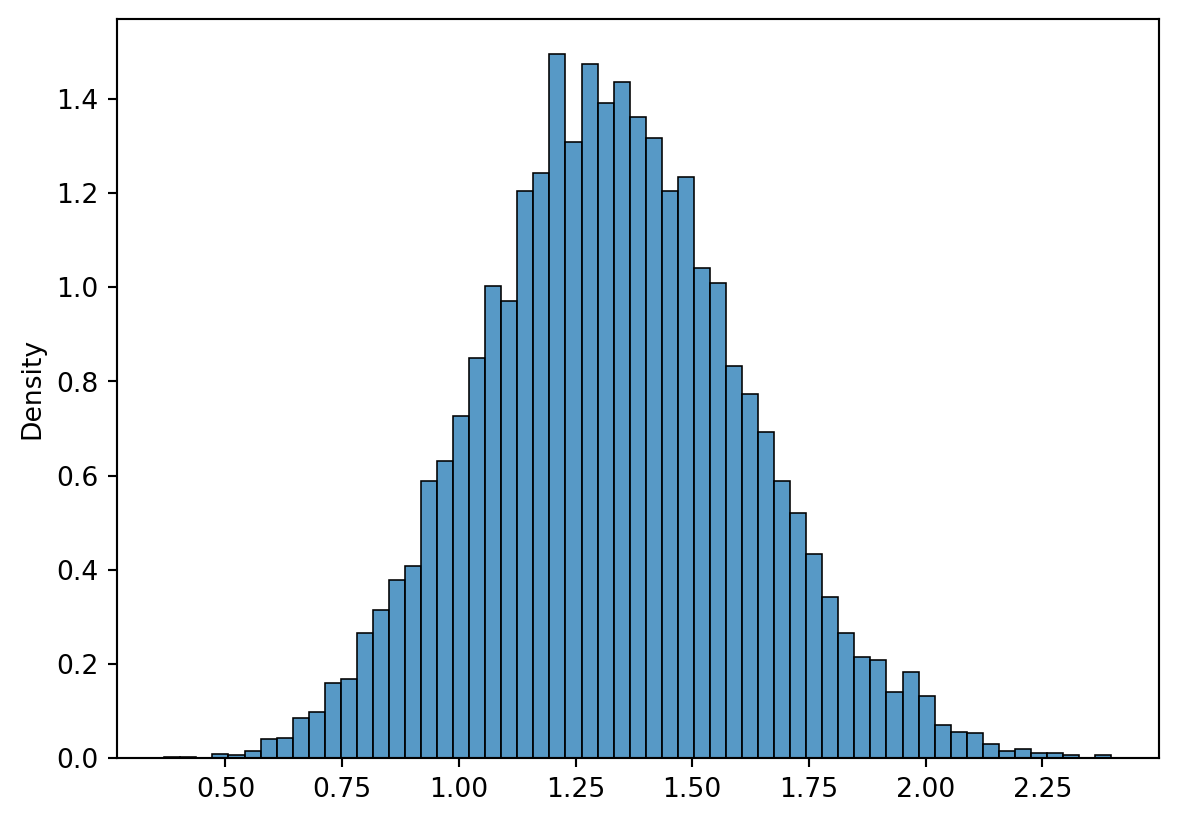
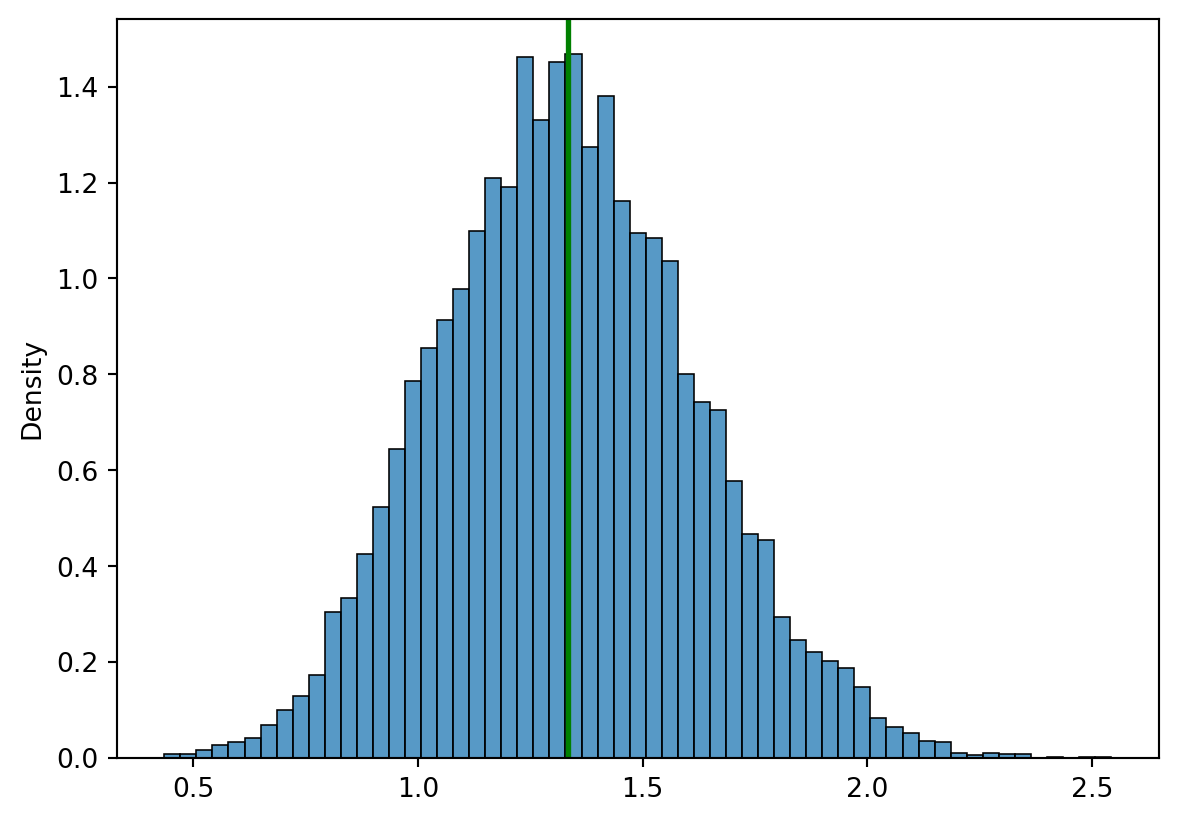
hw4

diff --git a/docs/posts/hw4/hw4.html b/docs/posts/hw4/hw4.html
@@ -199,7 +199,7 @@ pre > code.sourceCode > span > a:first-child::before { text-decoration: underlin
 <p>표본 분산 계산 시 왜 n-1로 나누는지 알아보도록 하겠습니다.</p>
 <p>균일분포 (3, 7)에서 20개의 표본을 뽑아서 분산을 2가지 방법으로 추정해보세요.</p>
 <p>n-1로 나눈 것을 s_2, n으로 나눈 것을 k_2로 정의하고, s_2의 분포와 k_2의 분포를 그려주세요! (10000개 사용) 각 분포 그래프에 모분산의 위치에 녹색 막대를 그려주세요. 결과를 살펴보고, 왜 n-1로 나눈 것을 분산을 추정하는 지표로 사용하는 것이 타당한지 써주세요!</p>
-<div id="618e5e76" class="cell" data-execution_count="1">
+<div id="67d9815f" class="cell" data-execution_count="1">
 <div class="sourceCode cell-code" id="cb1"><pre class="sourceCode python code-with-copy"><code class="sourceCode python"><span id="cb1-1"><a href="#cb1-1" aria-hidden="true" tabindex="-1"></a><span class="im">import</span> pandas <span class="im">as</span> pd</span>
 <span id="cb1-2"><a href="#cb1-2" aria-hidden="true" tabindex="-1"></a><span class="im">import</span> numpy <span class="im">as</span> np</span>
 <span id="cb1-3"><a href="#cb1-3" aria-hidden="true" tabindex="-1"></a><span class="im">import</span> seaborn <span class="im">as</span> sns</span>
@@ -207,29 +207,25 @@ pre > code.sourceCode > span > a:first-child::before { text-decoration: underlin
 <span id="cb1-5"><a href="#cb1-5" aria-hidden="true" tabindex="-1"></a><span class="im">from</span> scipy.stats <span class="im">import</span> uniform</span></code><button title="Copy to Clipboard" class="code-copy-button"><i class="bi"></i></button></pre></div>
 </div>
 <p><strong>균일분포 (3, 7)에서 20개의 표본 추출</strong></p>
-<div id="9b113891" class="cell" data-execution_count="2">
+<div id="d69a9055" class="cell" data-execution_count="2">
 <div class="sourceCode cell-code" id="cb2"><pre class="sourceCode python code-with-copy"><code class="sourceCode python"><span id="cb2-1"><a href="#cb2-1" aria-hidden="true" tabindex="-1"></a>x <span class="op">=</span> uniform.rvs(loc<span class="op">=</span><span class="dv">3</span>, scale<span class="op">=</span><span class="dv">4</span>, size<span class="op">=</span><span class="dv">20</span><span class="op">*</span><span class="dv">10000</span>)</span>
 <span id="cb2-2"><a href="#cb2-2" aria-hidden="true" tabindex="-1"></a>x</span>
 <span id="cb2-3"><a href="#cb2-3" aria-hidden="true" tabindex="-1"></a>x.shape</span>
 <span id="cb2-4"><a href="#cb2-4" aria-hidden="true" tabindex="-1"></a>x<span class="op">=</span>x.reshape(<span class="op">-</span><span class="dv">1</span>, <span class="dv">20</span>)</span>
 <span id="cb2-5"><a href="#cb2-5" aria-hidden="true" tabindex="-1"></a>x</span>
 <span id="cb2-6"><a href="#cb2-6" aria-hidden="true" tabindex="-1"></a>x.shape</span></code><button title="Copy to Clipboard" class="code-copy-button"><i class="bi"></i></button></pre></div>
-<div class="cell-output cell-output-display" data-execution_count="2">
+<div class="cell-output cell-output-display" data-execution_count="6">
 <pre><code>(10000, 20)</code></pre>
 </div>
 </div>
 <p><strong>n-1로 나눈 것을 s_2</strong> <strong>s_2의 분포 그리기 (10000개 사용)</strong> <strong>모분산의 위치에 녹색 막대</strong></p>
-<div id="268865da" class="cell" data-execution_count="3">
+<div id="ada8b3ab" class="cell" data-execution_count="3">
 <div class="sourceCode cell-code" id="cb4"><pre class="sourceCode python code-with-copy"><code class="sourceCode python"><span id="cb4-1"><a href="#cb4-1" aria-hidden="true" tabindex="-1"></a>s_2 <span class="op">=</span> np.var(x, ddof<span class="op">=</span><span class="dv">1</span>, axis<span class="op">=</span><span class="dv">1</span>)</span>
 <span id="cb4-2"><a href="#cb4-2" aria-hidden="true" tabindex="-1"></a>s_2.shape</span>
-<span id="cb4-3"><a href="#cb4-3" aria-hidden="true" tabindex="-1"></a></span>
-<span id="cb4-4"><a href="#cb4-4" aria-hidden="true" tabindex="-1"></a>sns.histplot(s_2, stat<span class="op">=</span><span class="st">'density'</span>)</span>
+<span id="cb4-3"><a href="#cb4-3" aria-hidden="true" tabindex="-1"></a>sns.histplot(s_2, stat<span class="op">=</span><span class="st">'density'</span>)</span>
+<span id="cb4-4"><a href="#cb4-4" aria-hidden="true" tabindex="-1"></a>plt.axvline(x <span class="op">=</span> uniform.var(loc<span class="op">=</span><span class="dv">2</span>, scale<span class="op">=</span><span class="dv">4</span>), color <span class="op">=</span> <span class="st">'green'</span>, linestyle <span class="op">=</span> <span class="st">'-'</span>, linewidth <span class="op">=</span> <span class="dv">2</span>)</span>
 <span id="cb4-5"><a href="#cb4-5" aria-hidden="true" tabindex="-1"></a>plt.show()</span>
-<span id="cb4-6"><a href="#cb4-6" aria-hidden="true" tabindex="-1"></a></span>
-<span id="cb4-7"><a href="#cb4-7" aria-hidden="true" tabindex="-1"></a>uniform.var(loc<span class="op">=</span><span class="dv">2</span>, scale<span class="op">=</span><span class="dv">4</span>) <span class="co"># 모분산</span></span>
-<span id="cb4-8"><a href="#cb4-8" aria-hidden="true" tabindex="-1"></a>plt.axvline(x <span class="op">=</span> uniform.var(loc<span class="op">=</span><span class="dv">2</span>, scale<span class="op">=</span><span class="dv">4</span>), color <span class="op">=</span> <span class="st">'green'</span>, linestyle <span class="op">=</span> <span class="st">'-'</span>, linewidth <span class="op">=</span> <span class="dv">2</span>)</span>
-<span id="cb4-9"><a href="#cb4-9" aria-hidden="true" tabindex="-1"></a>plt.show()</span>
-<span id="cb4-10"><a href="#cb4-10" aria-hidden="true" tabindex="-1"></a>plt.clf()</span></code><button title="Copy to Clipboard" class="code-copy-button"><i class="bi"></i></button></pre></div>
+<span id="cb4-6"><a href="#cb4-6" aria-hidden="true" tabindex="-1"></a>plt.clf()</span></code><button title="Copy to Clipboard" class="code-copy-button"><i class="bi"></i></button></pre></div>
 <div class="cell-output cell-output-display">
 <div>
 <figure class="figure">
@@ -238,38 +234,21 @@ pre > code.sourceCode > span > a:first-child::before { text-decoration: underlin
 </div>
 </div>
 <div class="cell-output cell-output-display">
-<div>
-<figure class="figure">
-<p><img src="hw4_files/figure-html/cell-4-output-2.png" width="571" height="416" class="figure-img"></p>
-</figure>
-</div>
-</div>
-<div class="cell-output cell-output-display">
 <pre><code>&lt;Figure size 672x480 with 0 Axes&gt;</code></pre>
 </div>
 </div>
 <p><strong>n으로 나눈 것을 k_2로 정의</strong> <strong>k_2의 분포 그리기 (10000개 사용)</strong> <strong>모분산의 위치에 녹색 막대</strong></p>
-<div id="4e8c3183" class="cell" data-execution_count="4">
+<div id="877a3671" class="cell" data-execution_count="4">
 <div class="sourceCode cell-code" id="cb6"><pre class="sourceCode python code-with-copy"><code class="sourceCode python"><span id="cb6-1"><a href="#cb6-1" aria-hidden="true" tabindex="-1"></a>k_2 <span class="op">=</span> np.var(x, ddof<span class="op">=</span><span class="dv">0</span>, axis<span class="op">=</span><span class="dv">1</span>)</span>
 <span id="cb6-2"><a href="#cb6-2" aria-hidden="true" tabindex="-1"></a>k_2.shape</span>
 <span id="cb6-3"><a href="#cb6-3" aria-hidden="true" tabindex="-1"></a></span>
 <span id="cb6-4"><a href="#cb6-4" aria-hidden="true" tabindex="-1"></a>sns.histplot(k_2, stat<span class="op">=</span><span class="st">'density'</span>)</span>
-<span id="cb6-5"><a href="#cb6-5" aria-hidden="true" tabindex="-1"></a>plt.show()</span>
-<span id="cb6-6"><a href="#cb6-6" aria-hidden="true" tabindex="-1"></a></span>
-<span id="cb6-7"><a href="#cb6-7" aria-hidden="true" tabindex="-1"></a>uniform.var(loc<span class="op">=</span><span class="dv">2</span>, scale<span class="op">=</span><span class="dv">4</span>) <span class="co"># 모분산</span></span>
-<span id="cb6-8"><a href="#cb6-8" aria-hidden="true" tabindex="-1"></a>plt.axvline(x <span class="op">=</span> uniform.var(loc<span class="op">=</span><span class="dv">2</span>, scale<span class="op">=</span><span class="dv">4</span>), color <span class="op">=</span> <span class="st">'green'</span>, linestyle <span class="op">=</span> <span class="st">'-'</span>, linewidth <span class="op">=</span> <span class="dv">2</span>)</span>
-<span id="cb6-9"><a href="#cb6-9" aria-hidden="true" tabindex="-1"></a>plt.show()</span></code><button title="Copy to Clipboard" class="code-copy-button"><i class="bi"></i></button></pre></div>
+<span id="cb6-5"><a href="#cb6-5" aria-hidden="true" tabindex="-1"></a>plt.axvline(x <span class="op">=</span> uniform.var(loc<span class="op">=</span><span class="dv">2</span>, scale<span class="op">=</span><span class="dv">4</span>), color <span class="op">=</span> <span class="st">'green'</span>, linestyle <span class="op">=</span> <span class="st">'-'</span>, linewidth <span class="op">=</span> <span class="dv">2</span>)</span>
+<span id="cb6-6"><a href="#cb6-6" aria-hidden="true" tabindex="-1"></a>plt.show()</span></code><button title="Copy to Clipboard" class="code-copy-button"><i class="bi"></i></button></pre></div>
 <div class="cell-output cell-output-display">
 <div>
 <figure class="figure">
-<p><img src="hw4_files/figure-html/cell-5-output-1.png" width="589" height="411" class="figure-img"></p>
-</figure>
-</div>
-</div>
-<div class="cell-output cell-output-display">
-<div>
-<figure class="figure">
-<p><img src="hw4_files/figure-html/cell-5-output-2.png" width="571" height="416" class="figure-img"></p>
+<p><img src="hw4_files/figure-html/cell-5-output-1.png" width="600" height="411" class="figure-img"></p>
 </figure>
 </div>
 </div>

diff --git a/docs/blog.html b/docs/blog.html
@@ -202,7 +202,7 @@ window.Quarto = {
 
 <div class="quarto-listing quarto-listing-container-default" id="listing-listing">
 <div class="list quarto-listing-default">
-<div class="quarto-post image-right" data-index="0" data-categories="bigdata" data-listing-date-sort="1722178800000" data-listing-file-modified-sort="1722265436358" data-listing-date-modified-sort="NaN" data-listing-reading-time-sort="1" data-listing-word-count-sort="162">
+<div class="quarto-post image-right" data-index="0" data-categories="bigdata" data-listing-date-sort="1722178800000" data-listing-file-modified-sort="1722265827147" data-listing-date-modified-sort="NaN" data-listing-reading-time-sort="1" data-listing-word-count-sort="156">
 <div class="thumbnail">
 <p><a href="./posts/hw4/hw4.html" class="no-external"></a></p><a href="./posts/hw4/hw4.html" class="no-external">
 <p class="card-img-top"><img src="posts\hw4\hw4_files\figure-html\cell-4-output-1.png"  class="thumbnail-image card-img"/></p>

diff --git a/docs/about.html b/docs/about.html
@@ -171,7 +171,7 @@ pre > code.sourceCode > span > a:first-child::before { text-decoration: underlin
 
 
 <p>About this site</p>
-<div id="d3e46680" class="cell" data-execution_count="1">
+<div id="0a7fa8cd" class="cell" data-execution_count="1">
 <div class="sourceCode cell-code" id="cb1"><pre class="sourceCode python code-with-copy"><code class="sourceCode python"><span id="cb1-1"><a href="#cb1-1" aria-hidden="true" tabindex="-1"></a><span class="dv">1</span> <span class="op">+</span> <span class="dv">1</span></span></code><button title="Copy to Clipboard" class="code-copy-button"><i class="bi"></i></button></pre></div>
 <div class="cell-output cell-output-display" data-execution_count="1">
 <pre><code>2</code></pre>
